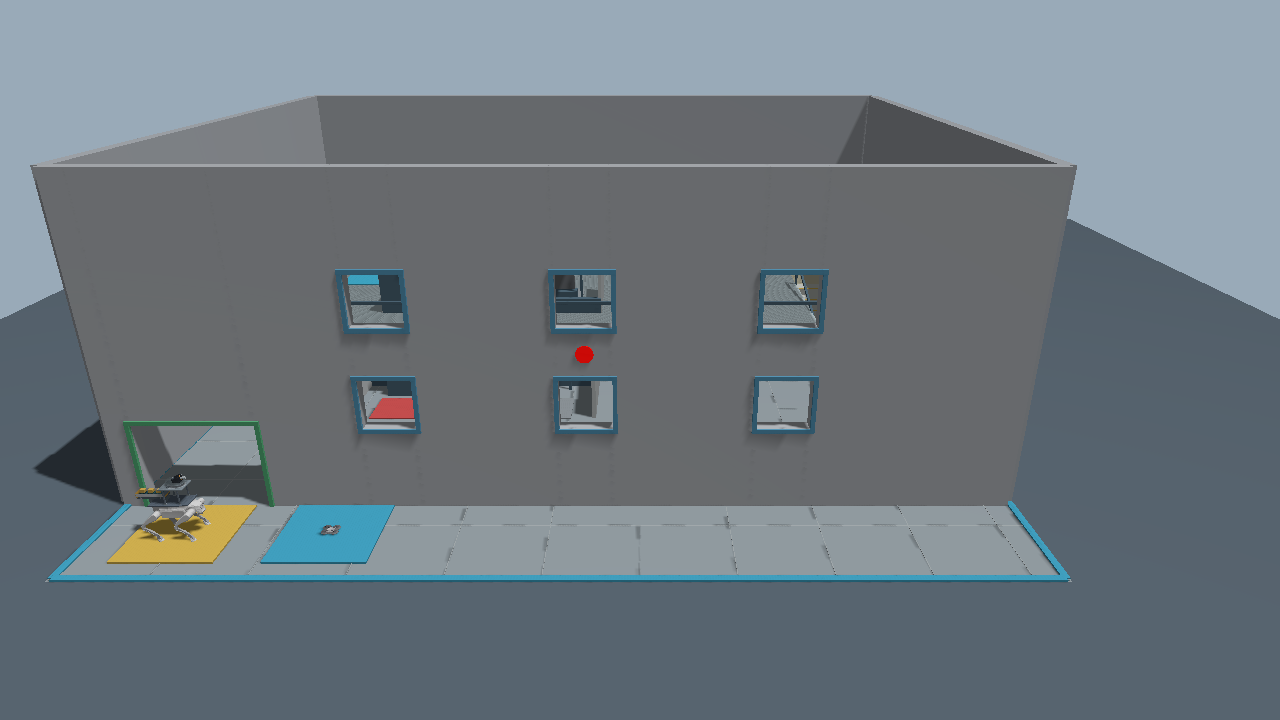
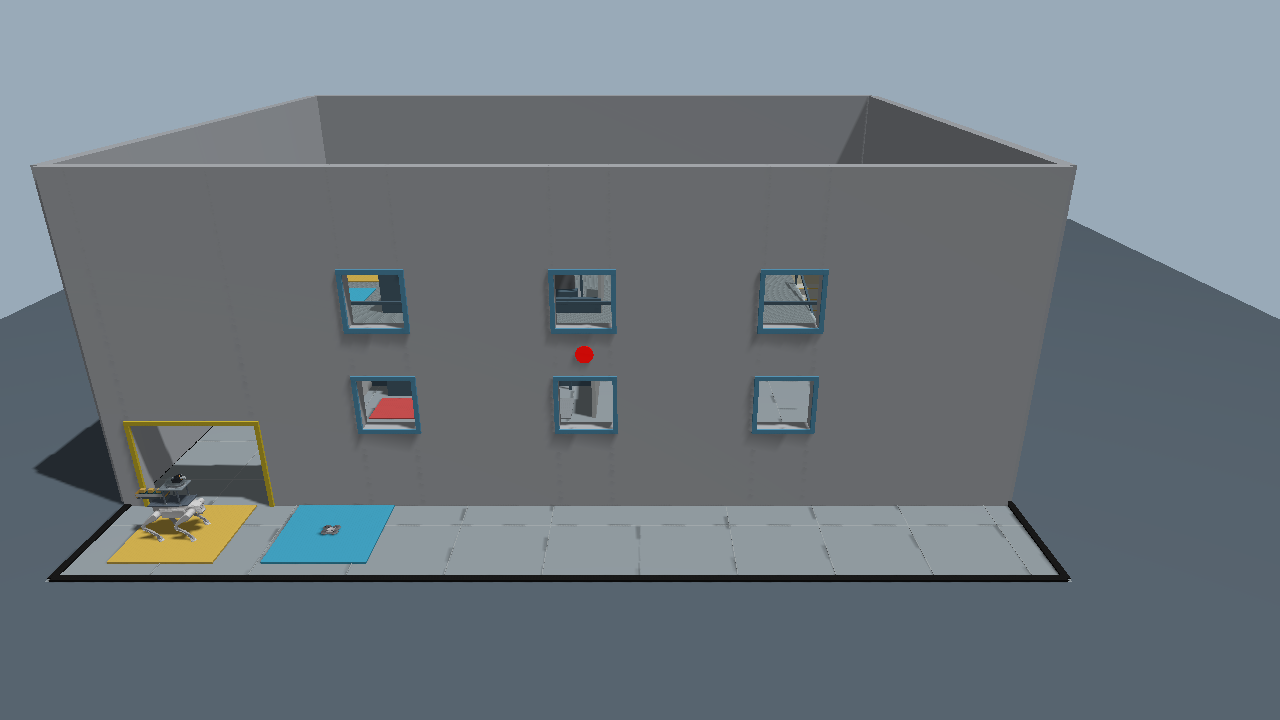
Stack compact rally pads on the left and recolor door and floor trim

diff --git a/scripts/entry_scene.py b/scripts/entry_scene.py
@@ -73,8 +73,8 @@ def adapt_entry(world, config, entry, fire_window=0):
         for side, z in enumerate((low-.025, high+.025)):
             box(model, f'window_{w["id"]}_horizontal_{side}', (w['center_x'], front-.095, z), (w['width']+.1, .035, .05), color, False)
     for side, x in enumerate((door['center_x']-door['width']/2-.025, door['center_x']+door['width']/2+.025)):
-        box(model, f'door_frame_{side}', (x, front-.095, door['height']/2), (.05, .035, door['height']), '.15 .65 .3 1', False)
-    box(model, 'door_header', (door['center_x'], front-.095, door['height']+.025), (door['width']+.1, .035, .05), '.15 .65 .3 1', False)
+        box(model, f'door_frame_{side}', (x, front-.095, door['height']/2), (.05, .035, door['height']), '.98 .75 .05 1', False)
+    box(model, 'door_header', (door['center_x'], front-.095, door['height']+.025), (door['width']+.1, .035, .05), '.98 .75 .05 1', False)
     marker = element(model, 'link', name='fire_window_marker')
     marker_z = selected['center_z']+selected['height']/2+.3
     element(marker, 'pose', f'{selected["center_x"]} {front-thickness/2-.012} {marker_z} {math.pi/2} 0 0')

diff --git a/README.md b/README.md
@@ -2,7 +2,7 @@
 
 包含 D1 EDU 机器狗、发射器、投放仓、无人机、两层地图和预训练步态。
 无人机从楼外起飞，穿过红圆着火标记对应的窗户进入；首报目标后，机器狗从独立地面门进入。
-机器狗完成平地行走、转向、8 级楼梯、1 次打靶、2 次投放；两机最终在二层左上角的相邻区域集合，无人机在蓝色区降落。
+机器狗完成平地行走、转向、8 级楼梯、1 次打靶、2 次投放；两机最终在二层左上角的上下排列的小区域集合，无人机在蓝色区降落。
 **无需训练、PyTorch 或 CUDA。** 源码、地图、模型与推理权重均在本包内，运行时不下载模型。
 
 ![楼外入口：绿色地面门与两排六扇小窗，红圆标出本轮着火窗](docs/entry_facade.png)
@@ -26,7 +26,7 @@ sudo apt install build-essential cmake python3-colcon-common-extensions \
 
 mkdir -p ~/d1_ws/src
 # 将收到的压缩包放入当前目录；解压后为 src/d1_tello_competition
-tar -xzf d1_tello_competition_student_20261021_v1.6.1.tar.gz -C ~/d1_ws/src
+tar -xzf d1_tello_competition_student_20261021_v1.7.0.tar.gz -C ~/d1_ws/src
 cd ~/d1_ws
 colcon build --packages-select d1_tello_competition --cmake-args -DCMAKE_BUILD_TYPE=Release
 source install/setup.bash
@@ -52,7 +52,7 @@ ros2 launch d1_tello_competition competition.launch.py
 外立面位于 `Y=1.5 m`，机器狗与无人机起点均在楼外。绿色门宽 1.4 m、高 1.05 m，无门槛；
 六扇窗分为上下两排，每排三扇，中心横坐标均为 `X=3.2/5.4/7.6 m`。
 下排 1–3 号窗中心高 `Z=1.3 m`，上排 4–6 号窗中心高 `Z=2.5 m`，净开口均为 **0.6 × 0.6 m**。
-六扇窗的尺寸、窗框外形和蓝色材质完全相同，仅用红圆标识着火窗。
+六扇窗的尺寸、窗框外形和蓝色材质完全相同，仅用红圆标识着火窗。机器狗门框为黄色，地板外围边线为黑色。
 默认下排 2 号窗上方有红圆着火标记，可用 `fire_window:=1` 至 `fire_window:=6` 切换。
 模型尺寸保持原样：无人机含护圈碰撞外廓约 17.8 × 19.3 cm；缩窗后窗宽约为机宽的 3.1 倍。
 选择其他着火窗会同时改变红圆位置、入楼航点和通行判定：
@@ -126,8 +126,8 @@ ros2 topic echo /competition/state
 `uav_entered`、`d1_entered` 表示机体已完全进入，`uav_phase` 表示无人机当前阶段。
 `uav_exited` 是兼容旧版的离楼记录；本版二楼集合时应为 false，`uav_landed` 为降落状态。
 打靶需要球体真实碰撞并使靶板倒下 ≥ 1 rad；投放需要物资接触指定楼层地面且落点误差 ≤ 0.2 m。
-完成 3 个目标后，D1 到二层左上角黄色集合点 `(2.7, 8.0)`，停在 0.15 m 范围内；
-Tello 在相邻蓝色集合点 `(1.2, 8.0)` 降落，支撑面高 0.8 m。无人机必须实际接触指定平台并停稳，才记录降落；两机集合后生成比赛结果。
+完成 3 个目标后，D1 到二层左上角黄色集合点 `(1.0, 8.0)`（俯视图上方，0.9 × 0.8 m），停在 0.15 m 范围内；
+Tello 在下方蓝色集合点 `(1.0, 6.85)`（0.7 × 0.7 m） 降落，支撑面高 0.8 m。无人机必须实际接触指定平台并停稳，才记录降落；两机集合后生成比赛结果。
 本版结束时保持在楼内，不要求穿窗返回楼外；学生模式限时 900 秒仿真时间。
 
 ## 4. 可选相机与修改入口

diff --git a/docs/MAP_VALIDATION.md b/docs/MAP_VALIDATION.md
@@ -1,28 +1,26 @@
-# 地图调整验收（2026-10-21，v1.6.1）
+# 地图调整验收（2026-10-21，v1.7.0）
 
-## 外墙收拢
+## 左侧集合区及配色调整
 
 - 楼梯低端入口朝俯视图下侧，位于 Y=5.1 m；从下向上爬升，八级台阶占 Y=5.1–7.5 m，高端转向平台位于 Y=7.5–9.1 m。
 - 二层外轮廓仍为 X=0.3–10.2 m、Y=5.1–9.1 m，高度 0.8 m。楼梯宽 1.4 m、级高 0.1 m、踏面 0.3 m，内嵌于二层右侧。
 - 图中上方墙中心 Y=9.18 m、右墙中心 X=10.28 m，墙厚 0.16 m；墙内侧分别为 Y=9.1 m、X=10.2 m，与二层外缘齐平。建筑内部净尺寸约 10.12 × 7.52 m。
-- 下方门窗墙和左墙位置不变。灰色底板、网格及蓝色边界同步收拢为 10.36 × 9.26 m；上方、右侧与外墙外缘齐平，下方保留门外出发区。
-- 路线、楼梯、目标、集合区、窗户、无人机巡航位置和两机模型保持上一版一致。
+- 下方门窗墙和左墙位置不变。灰色底板为 10.36 × 9.26 m，上方与右侧齐平外墙外缘；地板外围边线为黑色，机器狗门框为黄色。
+- 调整最后一段机器狗集合路线与无人机降落点，楼梯、目标、窗户和模型保持原样。
 - 1/2/3 号目标位于 Y=4.3 m；4/5/6 号目标位于二层下侧 Y=6.5 m。目标列 X=2.5 / 4.7 / 6.9 m，顶部数字正向可读。
 - 1 号目标最左边缘 X=1.8225 m，位于门洞右边界 X=1.7 m 以右。
 - 六窗列中心 X=3.2 / 5.4 / 7.6 m，净开口 0.6 × 0.6 m、统一蓝框；最右窗框 X=7.95 m，小于楼梯左边界 X=8.8 m。
-- 二层左上角集合区：蓝色 Tello `(1.2, 8.0)`，黄色 D1 `(2.7, 8.0)`。
+- 集合区靠二层左边上下排列：上方黄色 D1 中心 `(1.0, 8.0)`、尺寸 0.9 × 0.8 m；下方蓝色 Tello 中心 `(1.0, 6.85)`、尺寸 0.7 × 0.7 m。机器狗沿 Y=8.0 从右侧到达，不穿越无人机降落区。
 - 全部台阶和平台的实体碰撞箱与 `terrain.json` 高度区域一致。
 
 ## 实测
 
-v1.6.1 只调整地面可视范围与边线；已逐项确认碰撞体、物理参数和路线未变，并重新完成 Gazebo 渲染。以下完整比赛结果来自 v1.6.0，未重复运行。
-
-默认 2 号窗完整比赛 **3/3 通过**，`strict_pass: true`，用时 **293.561 秒仿真时间**。
+默认 2 号窗完整比赛 **3/3 通过**，`strict_pass: true`，用时 **300.061 秒仿真时间**。
 完成穿窗、首报、进门、打靶、从下侧梯脚爬上八级台阶、两次投放，以及左上角两机集合。
 
 - 两次投放误差 0.1138 m、0.1576 m，均小于 0.2 m。
-- D1 集合误差 0.0896 m；Tello 水平误差 0.0000 m。
-- Tello 在 281.541 秒实际接触 `upper_platform` 停稳并停止旋翼；降落后与 D1 最小水平距离 1.567 m。
+- D1 集合误差 0.0656 m；Tello 水平误差 0.0000 m。
+- Tello 在 281.791 秒实际接触 `upper_platform` 停稳并停止旋翼；降落后与 D1 最小水平距离 1.132 m。
 - 无人机与机器狗均只从规定入口入楼一次；无人机留在二楼集合，不需要穿窗出楼。
 - 未修改控制器和冻结权重，没有初始化后的机体位姿覆盖或机器狗外加抬升力。
 
